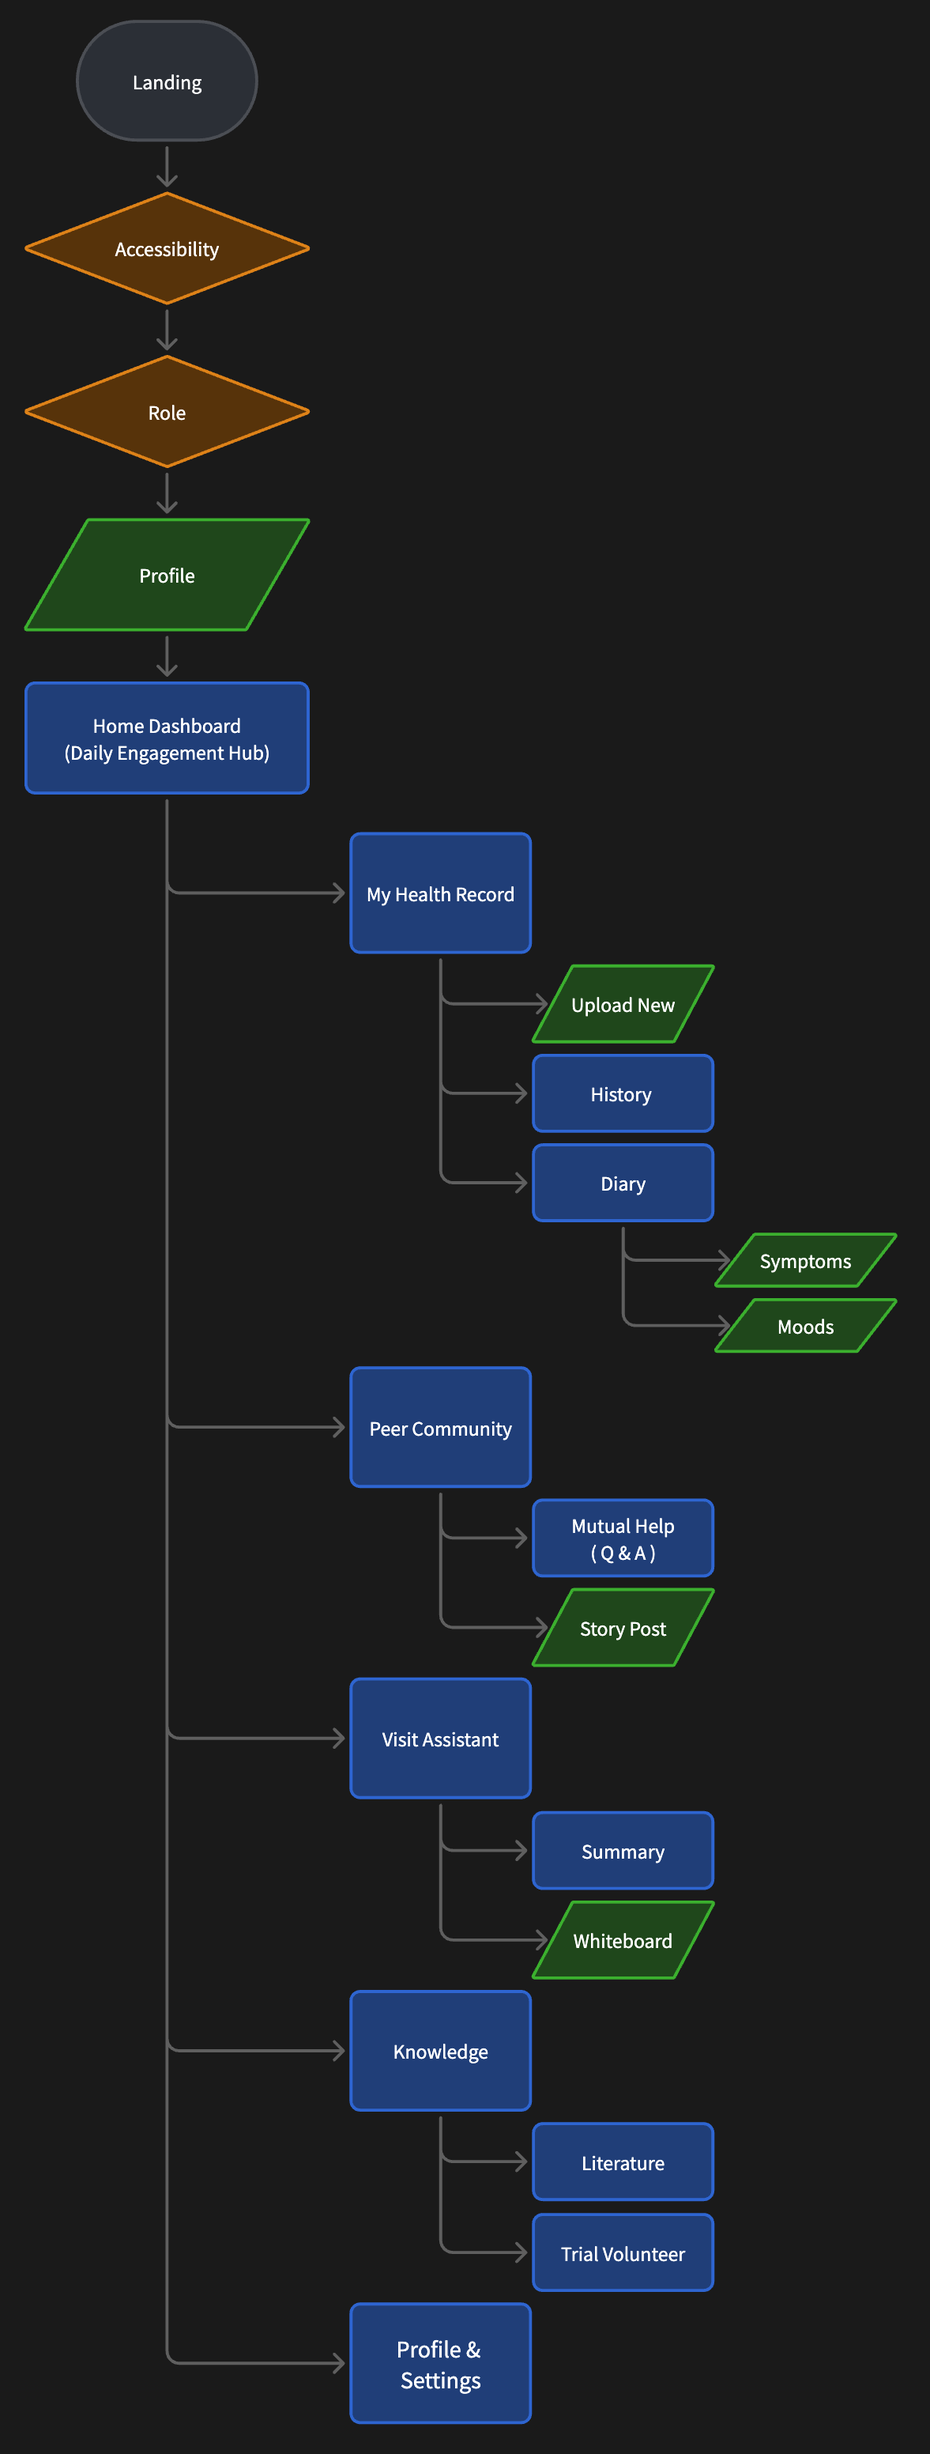
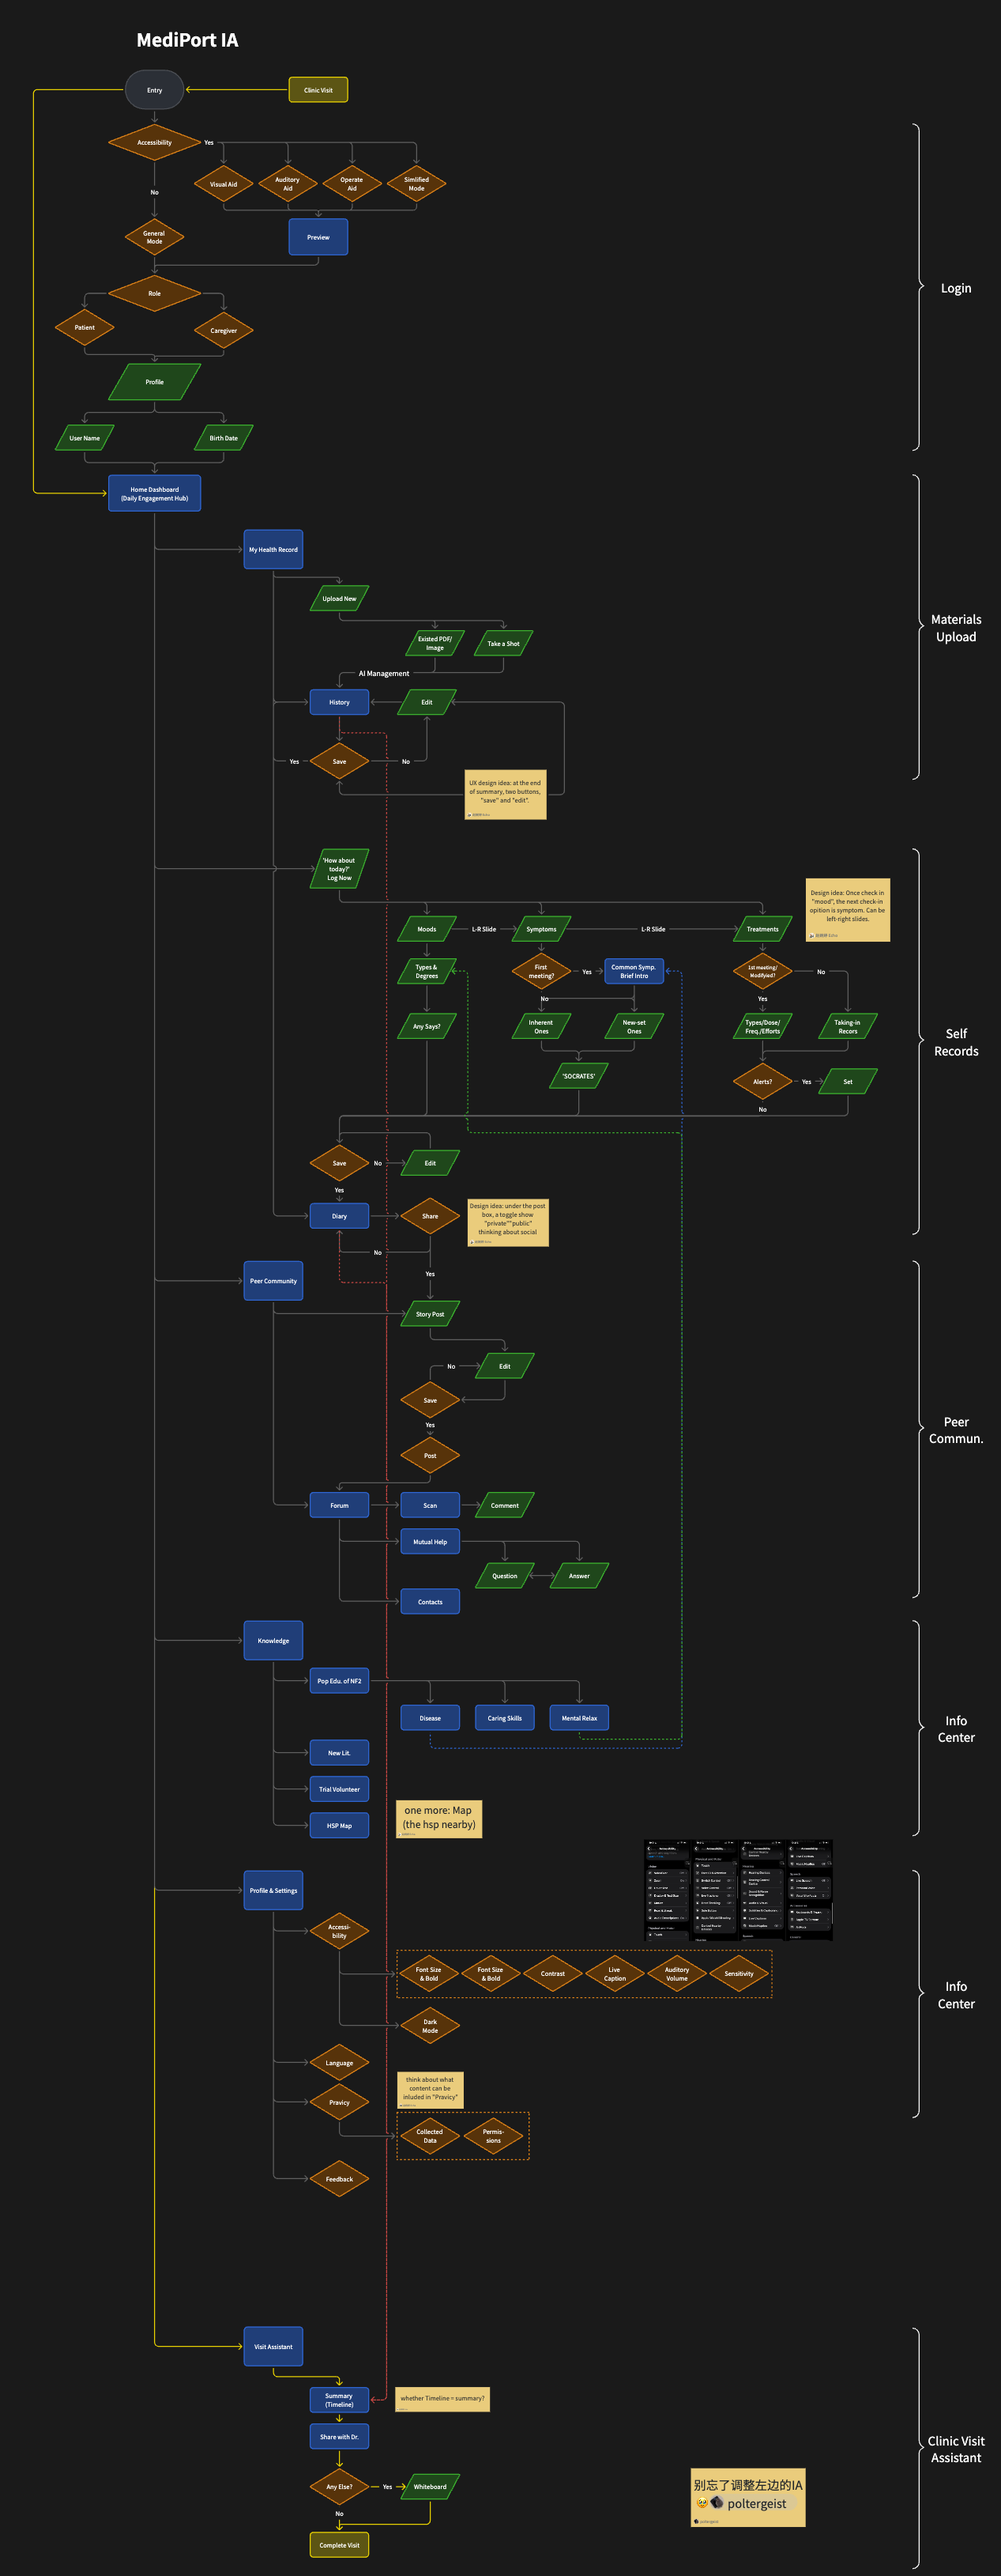
update planning and design files

diff --git a/01_planning/2_PwC_6Week_Plan.md b/01_planning/2_PwC_6Week_Plan.md
@@ -1,6 +1,6 @@
 # 📅 PwC "包容未来实验室" 6-Week Plan — MediPort
 
-**Program window:** Jul 20 – Aug 30, 2026 · **Mid-presentation:** placeholder **Fri Aug 7** (end of Week 3, confirm with PwC) · **Final defense:** September (date TBD)
+**Program window:** Jul 20 – Aug 30, 2026 · **Mid-presentation:** downgraded 7/29 to an **optional progress update with group mentor** (~Fri Aug 7, informal) · **Final defense:** September (date TBD)
 **Team (CareLink Lab):** Echo 赵婉婷 (lead / product design / research) · Yiran 孙亦然 (product design / accessibility review) · Shengxuan 张盛璇 (medical content / user research)
 
 > **Reality check baked into this plan:** Empathize is ✅ done (survey n=38, interviews). Echo's semester starts ~Jul 27 → her capacity drops to **5–8 hrs/wk from Week 2**. So Week 1 front-loads Echo's heavy Figma setup, and Weeks 2–6 shift research synthesis, content, and testing logistics to Yiran & Shengxuan. Echo owns only the **core hi-fi flow (v2, ~6 screens)**: Onboarding (diagnosis-year + accessibility profile) → notebook-style Home (explicit upload, timeline, function teasers) → Generate Summary → Summary view. **Community & Remote visit = 1 static concept screen each** (Yiran drafts lo-fi, Echo polishes once) — reachable from Home teasers, framed as roadmap, matching what the PwC proposal promised (prototype = 上传/整理/时间线/摘要; 社区等 = 路线图).
@@ -38,37 +38,37 @@
 | 2.2 | User flow (core path only): Onboarding → Home → Upload/Log Event → Timeline → Generate Summary → Summary view. Shengxuan drafts flow logic (clinical order, fold in role-play findings); Echo cleans up in Figma (≤3 hrs). **Flow freeze Wed 7/29** | Shengxuan (draft) + Echo (Figma) | Flowchart |
 | 2.3 | Lo-fi wireframes, core flow v2 (~6 screens), Thu–Sat. Every screen maps to a node in the frozen flow; each screen cites ≥1 insight from 2.6 audit | Echo (Figma), sketches feed in | Lo-fi set → `04_design/` |
 | 2.4 | Doctor-summary content model: what fields must a 就诊摘要 contain to be clinically usable | Shengxuan | Summary field spec (bilingual) |
-| 2.5 | Accessibility heuristic pass on lo-fi (Sun sync) — **gate: lo-fi not "done" until issue list triaged** | Yiran | Issue list |
-| 2.6 | Accessibility benchmark / competitor audit refresh (June audit covered PatientsLikeMe/MyChart): NotebookLM interaction pattern, CN 病历夹 apps, 微医/好大夫 remote-visit flow, 泡泡家园 community. Extract 3–5 interaction patterns; present 10 min at Wed flow-freeze | Yiran (~3 hrs) *(reassigned from Shengxuan 7/26)* | 1-page audit notes + patterns |
-| 2.7 | Lo-fi concept cards: Community + Remote visit (1 static screen each) | Yiran | 2 concept cards |
-| 2.8 | IA accessibility critique: Yiran reviews `04_design/MediPort_IA.png` async (5-min walkthrough from Echo), flags a11y issues incl. node order (Accessibility before Role?) | Yiran | Margin comments |
+| 2.5 | Accessibility heuristic pass on lo-fi (Sun sync) — **gate: lo-fi not "done" until issue list triaged**. Checklist-driven, async — no Figma authoring needed. *Fallback if Yiran unavailable: Echo runs WCAG checklist herself (30 min) + log QA gap* | Yiran | Issue list |
+| 2.6 | ✅ Done 7/28 (Yiran). Outcome: low new signal — patterns surfaced were already covered by 7/23 solution categorization. No follow-up actions; notes archived for appendix | Yiran | 1-page audit notes (archived) |
+| 2.7 | ~~Lo-fi concept cards (Yiran)~~ → moved 7/29 to Echo, deferred to Week 4 polish slot (task 4.1). Cards built directly from `Solution_Categorization.md` content, ~1.5 h each; first in cut order if capacity is tight | Echo (W4) | 2 concept cards |
+| 2.8 | IA accessibility critique: Yiran reviews `04_design/MediPort_IA.png` async (5-min walkthrough from Echo), flags a11y issues incl. node order (Accessibility before Role?). *Fallback: fold into Echo's 2.5 self-check* | Yiran | Margin comments |
 
 > **Scope guard (2.2/2.3):** MediPort_IA.png shows full-product IA incl. Peer Community, Visit Assistant, Knowledge — these stay as Home teasers ending in "concept card" terminal nodes. User flow and lo-fi cover the core path only.
 
-## Week 3 · Aug 3–9 — Hi-fi starts + **Mid-presentation (Fri Aug 7)**
+## Week 3 · Aug 3–9 — Hi-fi starts + optional mentor update
 
 | # | Task | Owner | Deliverable |
 |---|---|---|---|
 | 3.1 | Hi-fi design system + Onboarding + Home/notebook screens | Echo (5–8 hrs) | Figma frames |
-| 3.2 | **Mid-pre deck**: background → research evidence (n=38 stats) → problem/persona → lo-fi direction → next steps. Reuse `Empathy_canvas` assets: primary persona, its journey map, empathy map | Yiran leads build, Shengxuan medical slides, Echo reviews + presents | Deck (CN) → feishu |
-| 3.2b | CN versions/annotations of the 3–4 canvases used in the deck (persona, journey map, empathy map) | Yiran translates, Echo exports from Figma(trim off depends on Yiran capbility) | CN canvas exports |
-| 3.3 | Mid-pre rehearsal (30 min in Sunday sync) | All | Feedback applied |
+| 3.2 | **Mentor progress update (optional, informal — downgraded 7/29 from formal mid-pre)**: short walkthrough (≤8 slides or FigJam board) — progress, lo-fi direction, next steps. Assembled from existing assets, ~2 h; no formal CN deck | Echo assembles + presents, Shengxuan sanity-checks medical claims | Update walkthrough |
+| 3.2b | ~~CN canvas translations for mid-pre~~ → deferred to Week 6 (only needed for PwC-facing final materials; folds into 6.3) | Yiran (W6) | — |
+| 3.3 | ~~Mid-pre rehearsal~~ → cut; 10-min preview in Sunday sync suffices | — | — |
 | 3.4 | Recruit 5 usability-test participants from Q11 volunteer pool (need lead time!) | Shengxuan | Confirmed participant list(If we can't hire tester, try plan B and C) |
 
 ## Week 4 · Aug 10–16 — Hi-fi complete
 
 | # | Task | Owner | Deliverable |
 |---|---|---|---|
-| 4.1 | Remaining hi-fi screens (Generate Summary, Summary view) + one polish pass on 2 concept cards + clickable prototype | Echo | Figma prototype link |
+| 4.1 | Remaining hi-fi screens (Generate Summary, Summary view) + **build 2 static concept cards** (moved from 2.7, ~1.5 h each — first in cut order) + clickable prototype | Echo | Figma prototype link |
 | 4.2 | Real medical content populated into screens (no lorem ipsum — real NF2 timeline data) | Shengxuan | Content in Figma (Echo places) |
-| 4.3 | Accessibility review of hi-fi (contrast, text size, non-audio cues) | Yiran | Review report |
-| 4.4 | Usability test plan + task script (5 tasks, accessible formats: text-based for HoH participants) | Yiran drafts, Echo approves | Test script |
+| 4.3 | Accessibility review of hi-fi (contrast, text size, non-audio cues) — checklist-driven, no Figma authoring. *Fallback: Echo self-check + log QA gap* | Yiran | Review report |
+| 4.4 | Usability test plan + task script (5 tasks, accessible formats: text-based for HoH participants) — template-driven. *Fallback: Shengxuan drafts* | Yiran drafts, Echo approves | Test script |
 
 ## Week 5 · Aug 17–23 — Usability testing + iteration
 
 | # | Task | Owner | Deliverable |
 |---|---|---|---|
-| 5.1 | Run 5 moderated tests (text/voice per participant's accessibility needs) | Shengxuan moderates, Yiran notes | Notes per participant |
+| 5.1 | Run 5 moderated tests (text/voice per participant's accessibility needs) | Shengxuan moderates, Yiran notes *(confirm session availability in advance; backup: record + Echo notes)* | Notes per participant |
 | 5.2 | Synthesize findings → prioritized fix list (P0/P1/P2) | Yiran + Echo | Findings report |
 | 5.3 | Iterate P0 fixes in prototype | Echo | Updated prototype + before/after shots |
 
@@ -82,7 +82,7 @@
 | # | Task | Owner | Deliverable |
 |---|---|---|---|
 | 6.1 | Product roadmap: 病友社区 · 研究前沿 · 健康记录 (per proposal 预期成果 #4) | Shenxuan + Yiran | Roadmap 1-pager |
-| 6.2 | Final defense deck (CN) — full story: problem → evidence → design → test → iterate → roadmap | Yiran leads, all contribute | Deck v1 → `collab/` |
+| 6.2 | Final defense deck (CN) — full story: problem → evidence → design → test → iterate → roadmap. **Yiran's primary ownership** — Echo hands her a slide-by-slide skeleton; deck assembly needs no ideation context. Includes CN canvas translations deferred from 3.2b | Yiran leads, all contribute | Deck v1 → `collab/` |
 | 6.3 | Design documentation package (需求分析、设计决策、无障碍原则、测试记录) | All (compile existing docs) | Doc package, CN (CN for PwC, EN files all for Echo and Shengxuan need) |
 | 6.4 | Retro + September defense logistics | All | Rehearsal schedule |
 
@@ -99,7 +99,8 @@ Two rehearsals (one accessibility dry-run: captions/scripts ready), deck v2 poli
 | Echo's semester load spikes → Figma bottleneck | Core locked at ~6 hi-fi screens + 2 static concept cards; Yiran preps everything possible outside Figma; cut order if needed: concept-card polish → onboarding second screen → screen polish; never drop testing |
 | Scope creep: community/remote visit become interactive | Home teasers link to static cards only; any interactivity request → roadmap slide, not prototype |
 | Usability participants drop out | Recruit 7, need 5; Week 3 recruitment gives 2-week buffer |
-| Mid-pre date differs from placeholder | Deck content (research + lo-fi) is ready by Aug 2 regardless; only rehearsal shifts |
+| Mid-pre date differs from placeholder | Downgraded to optional mentor update (7/29); content ready by Aug 2 regardless |
+| Yiran limited availability (job interviews; missed ideation sessions) | Role converted 7/29 to deliverable-based execution with review gates: a11y checklists (2.5/2.8/4.3), test script (4.4), test notes (5.1), final deck lead (6.2). Every task has a named fallback; Echo QA-checks outputs. Get availability commitments in writing at Sunday sync |
 | Bilingual deliverable overhead | Work in CN for PwC decks, EN for portfolio docs; translate mid-pre canvases in Week 3 (task 3.2b), everything else once at Week 6 |
 | 4 personas pull scope in 4 directions | Lock 1 primary + 1 secondary in Week 1 (task 1.2) before any wireframing; other 2 move to appendix/roadmap evidence |
 
